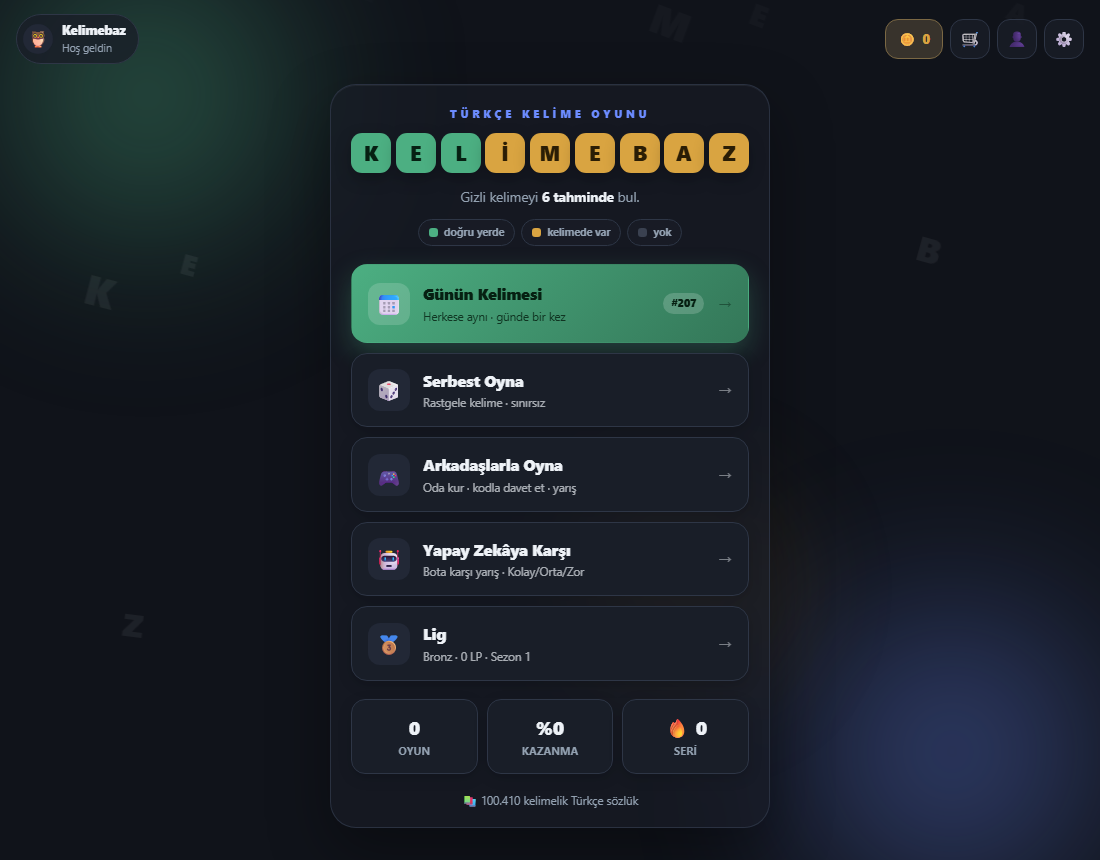
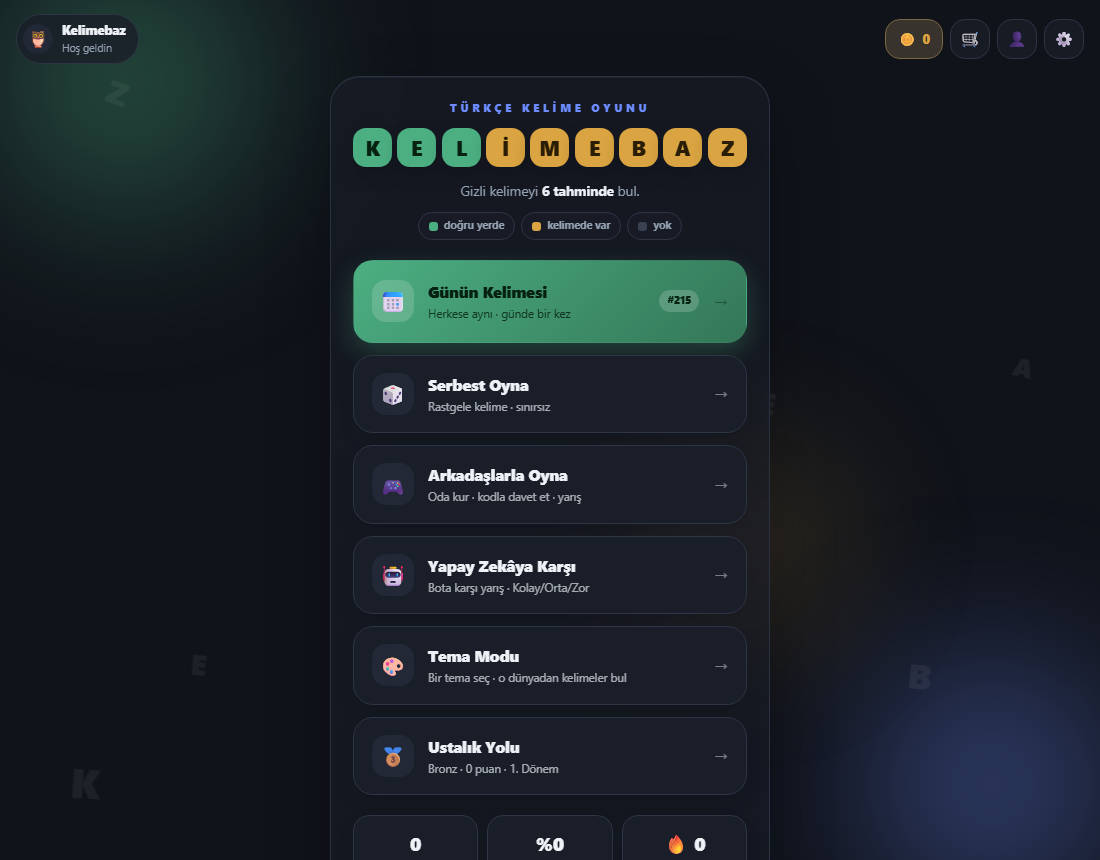
Tasarim: "Yumusak & Ferah" — yuvarlak koseler, ferah kartlar, yumusak golge
- Token'lar: $radius 12→15, $radius-sm 8→10, $radius-lg 20→24 (genel yumusama).
- Kutucuklar (tile) $radius kullandigi icin 12→15px yuvarlandi; tahtaya biraz
  daha nefes payi (game.scss --tile-gap).
- Menu (title-screen): mod kartlari 16→20px + dolgu/aralik artti + golgeler
  yumusadi; ust cubuk butonlari, logo kutucuklari, istatistik kartlari yuvarlandi.
- Oyun durumu renkleri (yesil/sari/gri) WCAG geregi DEGISMEDI.
- design-system/ katalogu (11 dosya) yeni olculere guncellendi +
  claude.ai/design "Kelimebaz Design System" paneline senkronlandi.
- docs/screenshots: menu + tahta kareleri yenilendi.

Yon kullanici tarafindan secildi (Yumusak & Ferah). Web + APK'ya yayinlandi.

diff --git a/src/app/components/title-screen/title-screen.scss b/src/app/components/title-screen/title-screen.scss
@@ -236,7 +236,7 @@
 
   background: color-mix(in srgb, var(--present) 16%, var(--surface));
   border: 1px solid color-mix(in srgb, var(--present) 45%, var(--border));
-  border-radius: 13px;
+  border-radius: 15px;
   backdrop-filter: blur(8px);
 
   transition:
@@ -267,7 +267,7 @@
 
   background: color-mix(in srgb, var(--surface) 78%, transparent);
   border: 1px solid var(--border);
-  border-radius: 13px;
+  border-radius: 15px;
   backdrop-filter: blur(8px);
 
   transition:
@@ -300,16 +300,16 @@
   max-width: 440px;
   display: flex;
   flex-direction: column;
-  gap: 18px;
+  gap: 20px;
 
-  padding: 22px 20px 18px;
+  padding: 24px 22px 20px;
 
   background: color-mix(in srgb, var(--surface) 55%, transparent);
   border: 1px solid color-mix(in srgb, var(--border) 85%, transparent);
-  border-radius: 26px;
+  border-radius: 30px;
   backdrop-filter: blur(18px);
   box-shadow:
-    0 24px 60px rgba(0, 0, 0, 0.35),
+    0 26px 64px rgba(0, 0, 0, 0.28),
     inset 0 1px 0 rgba(255, 255, 255, 0.05); // üstte ince ışık çizgisi → cam hissi
 }
 
@@ -377,9 +377,9 @@
   font-size: clamp(14px, 3.6vw, 21px);
   font-weight: 800;
 
-  border-radius: 11px;
+  border-radius: 13px;
   color: var(--text);
-  box-shadow: 0 6px 16px rgba(0, 0, 0, 0.25);
+  box-shadow: 0 8px 18px rgba(0, 0, 0, 0.2);
 
   animation: flip-in 0.6s cubic-bezier(0.2, 0.8, 0.2, 1) both;
 
@@ -455,22 +455,22 @@
 
 .modes {
   display: grid;
-  gap: 10px;
+  gap: 12px;
 }
 
 .mode {
   position: relative;
   display: flex;
   align-items: center;
-  gap: 13px;
+  gap: 14px;
   width: 100%;
-  padding: 15px 16px;
+  padding: 17px 18px;
   text-align: left;
 
-  border-radius: 16px;
+  border-radius: 20px;
   border: 1px solid var(--border);
   background: var(--surface);
-  box-shadow: 0 4px 14px rgba(0, 0, 0, 0.18);
+  box-shadow: 0 6px 18px rgba(0, 0, 0, 0.13);
   overflow: hidden;
 
   transition:
@@ -497,7 +497,7 @@
   &:hover {
     transform: translateY(-3px);
     border-color: color-mix(in srgb, var(--accent) 60%, var(--border));
-    box-shadow: 0 14px 32px rgba(0, 0, 0, 0.3);
+    box-shadow: 0 16px 34px rgba(0, 0, 0, 0.2);
 
     &::before {
       transform: translateX(120%);
@@ -516,7 +516,7 @@
 
   // Birincil kart — günün kelimesi. Görsel ağırlığı en yüksek olan öğe.
   &.primary {
-    padding: 17px 16px;
+    padding: 19px 18px;
     background: linear-gradient(
       135deg,
       var(--correct),
@@ -578,7 +578,7 @@
   display: grid;
   place-items: center;
   font-size: 20px;
-  border-radius: 12px;
+  border-radius: 14px;
 }
 
 .m-tx {
@@ -645,11 +645,11 @@
 /* ---------- Bugün oynandı kartı ---------- */
 
 .done {
-  padding: 15px;
+  padding: 16px;
   background: var(--surface);
   border: 1px solid var(--border);
-  border-radius: 18px;
-  box-shadow: 0 4px 14px rgba(0, 0, 0, 0.18);
+  border-radius: 22px;
+  box-shadow: 0 6px 18px rgba(0, 0, 0, 0.13);
 }
 
 .d-head {
@@ -712,8 +712,8 @@
 
   background: var(--surface);
   border: 1px solid var(--border);
-  border-radius: 14px;
-  box-shadow: 0 4px 14px rgba(0, 0, 0, 0.16);
+  border-radius: 16px;
+  box-shadow: 0 6px 16px rgba(0, 0, 0, 0.12);
 
   transition:
     transform 0.16s cubic-bezier(0.34, 1.5, 0.64, 1),
@@ -760,9 +760,9 @@
   }
 
   .content {
-    gap: 15px;
-    padding: 18px 14px 15px;
-    border-radius: 22px;
+    gap: 16px;
+    padding: 20px 16px 16px;
+    border-radius: 26px;
   }
 
   .blob {
@@ -868,7 +868,7 @@
   }
   .tile {
     max-width: 36px;
-    border-radius: 9px;
+    border-radius: 11px;
   }
   .tagline {
     margin-top: 8px;

diff --git a/design-system/components/buttons.html b/design-system/components/buttons.html
@@ -9,7 +9,7 @@
       :root {
         --bg: #10131a; --surface: #191e28; --surface-2: #222836; --border: #2e3646;
         --text: #eef2f7; --text-muted: #93a1b1; --accent: #6c8cff; --danger: #e0625c;
-        --share-1: #546dc7; --share-2: #7a60c7; --radius: 12px;
+        --share-1: #546dc7; --share-2: #7a60c7; --radius: 15px;
         --font: 'Segoe UI', system-ui, sans-serif;
       }
       * { box-sizing: border-box; }
@@ -22,7 +22,7 @@
       .danger { background: transparent; color: var(--danger); border: 1px solid var(--danger); }
       .share { background: linear-gradient(90deg, var(--share-1), var(--share-2)); color: #fff; }
       .pill { border-radius: 999px; padding: 9px 18px; font-size: 14px; }
-      .icon { width: 44px; height: 44px; border-radius: 12px; background: var(--surface-2); color: var(--text); display: grid; place-items: center; padding: 0; font-size: 18px; }
+      .icon { width: 44px; height: 44px; border-radius: 14px; background: var(--surface-2); color: var(--text); display: grid; place-items: center; padding: 0; font-size: 18px; }
       .lbl { color: var(--text-muted); font-size: 12px; width: 100%; margin: 0 0 -6px; }
     </style>
   </head>

diff --git a/design-system/tokens/skins.html b/design-system/tokens/skins.html
@@ -12,8 +12,8 @@
       h1 { font-size: 15px; letter-spacing: 0.04em; text-transform: uppercase; color: var(--text-muted); margin: 0 0 4px; }
       p.sub { margin: 0 0 22px; color: var(--text-muted); font-size: 13px; }
       .grid { display: grid; grid-template-columns: repeat(auto-fill, minmax(160px, 1fr)); gap: 14px; }
-      .skin { border: 1px solid var(--border); border-radius: 12px; padding: 14px; background: var(--surface); }
-      .swatch { height: 44px; border-radius: 8px; margin-bottom: 12px; }
+      .skin { border: 1px solid var(--border); border-radius: 15px; padding: 14px; background: var(--surface); }
+      .swatch { height: 44px; border-radius: 10px; margin-bottom: 12px; }
       .btn { display: inline-block; padding: 7px 14px; border-radius: 999px; color: #fff; font-weight: 700; font-size: 13px; }
       .name { font-size: 13px; font-weight: 600; margin-bottom: 10px; }
     </style>

diff --git a/design-system/tokens/spacing.html b/design-system/tokens/spacing.html
@@ -45,9 +45,9 @@
 
     <h2>Köşe yarıçapı</h2>
     <div class="radii">
-      <div class="rad"><div class="demo" style="border-radius: 8px"></div><div class="lbl">--radius-sm · 8</div></div>
-      <div class="rad"><div class="demo" style="border-radius: 12px"></div><div class="lbl">--radius · 12</div></div>
-      <div class="rad"><div class="demo" style="border-radius: 20px"></div><div class="lbl">--radius-lg · 20</div></div>
+      <div class="rad"><div class="demo" style="border-radius: 10px"></div><div class="lbl">--radius-sm · 10</div></div>
+      <div class="rad"><div class="demo" style="border-radius: 15px"></div><div class="lbl">--radius · 15</div></div>
+      <div class="rad"><div class="demo" style="border-radius: 24px"></div><div class="lbl">--radius-lg · 24</div></div>
     </div>
   </body>
 </html>

diff --git a/design-system/components/tile-colorblind.html b/design-system/components/tile-colorblind.html
@@ -24,7 +24,7 @@
       .tile {
         width: 58px; height: 58px; display: grid; place-items: center;
         font-family: var(--mono); font-size: 28px; font-weight: 700;
-        border-radius: 6px; border: 2px solid var(--tile-border);
+        border-radius: 15px; border: 2px solid var(--tile-border);
       }
       .tile.correct { background: var(--correct); color: var(--on-correct); border-color: var(--correct); }
       .tile.present { background: var(--present); color: var(--on-present); border-color: var(--present); }

diff --git a/design-system/components/board.html b/design-system/components/board.html
@@ -23,7 +23,7 @@
       .t {
         width: 52px; height: 52px; display: grid; place-items: center;
         font-family: var(--mono); font-size: 25px; font-weight: 700;
-        border-radius: 6px; border: 2px solid var(--tile-border);
+        border-radius: 15px; border: 2px solid var(--tile-border);
       }
       .correct { background: var(--correct); color: var(--on-correct); border-color: var(--correct); }
       .present { background: var(--present); color: var(--on-present); border-color: var(--present); }

diff --git a/src/app/components/game/game.scss b/src/app/components/game/game.scss
@@ -18,7 +18,8 @@
   --cols: 5;
 
   // Mobil temel ölçüler — ekranın hem genişliğine hem yüksekliğine bakar
-  --tile-gap: clamp(4px, 1.1vw, 6px);
+  // "Yumuşak & Ferah": kutular arası biraz daha nefes payı (formül taşmayı önler).
+  --tile-gap: clamp(5px, 1.2vw, 7px);
   // Kutu boyutu = min(estetik/yükseklik tavanı, GENİŞLİĞE sığan boyut).
   // Genişlik terimi sütun sayısına bağlı → 7 harfli kelime bile dar ekranda taşmaz.
   --tile-cap: clamp(40px, min(15.5vw, 7.6dvh), 62px);

diff --git a/design-system/components/tile-dark.html b/design-system/components/tile-dark.html
@@ -22,7 +22,7 @@
       .tile {
         width: 58px; height: 58px; display: grid; place-items: center;
         font-family: var(--mono); font-size: 28px; font-weight: 700;
-        border-radius: 6px; border: 2px solid var(--tile-border);
+        border-radius: 15px; border: 2px solid var(--tile-border);
       }
       .tile.filled { border-color: var(--tile-border-filled); }
       .tile.correct { background: var(--correct); color: var(--on-correct); border-color: var(--correct); }

diff --git a/design-system/components/tile-light.html b/design-system/components/tile-light.html
@@ -22,7 +22,7 @@
       .tile {
         width: 58px; height: 58px; display: grid; place-items: center;
         font-family: var(--mono); font-size: 28px; font-weight: 700;
-        border-radius: 6px; border: 2px solid var(--tile-border);
+        border-radius: 15px; border: 2px solid var(--tile-border);
       }
       .tile.filled { border-color: var(--tile-border-filled); }
       .tile.correct { background: var(--correct); color: var(--on-correct); border-color: var(--correct); }

diff --git a/design-system/components/keyboard.html b/design-system/components/keyboard.html
@@ -19,7 +19,7 @@
       .kb { display: grid; gap: 8px; max-width: 520px; }
       .krow { display: flex; gap: 6px; justify-content: center; }
       .key {
-        min-width: 34px; height: 50px; padding: 0 10px; border-radius: 8px;
+        min-width: 34px; height: 50px; padding: 0 10px; border-radius: 10px;
         background: var(--key-bg); color: var(--text); font-weight: 700; font-size: 15px;
         display: grid; place-items: center; border: 0;
       }

diff --git a/design-system/components/cards.html b/design-system/components/cards.html
@@ -9,7 +9,7 @@
       :root {
         --bg: #10131a; --surface: #191e28; --surface-2: #222836; --border: #2e3646;
         --text: #eef2f7; --text-muted: #93a1b1; --accent: #6c8cff; --accent-2: #9d7bff;
-        --present: #d9a441; --radius: 12px; --radius-lg: 20px;
+        --present: #d9a441; --radius: 15px; --radius-lg: 24px;
         --font: 'Segoe UI', system-ui, sans-serif;
       }
       * { box-sizing: border-box; }

diff --git a/src/styles/_variables.scss b/src/styles/_variables.scss
@@ -25,9 +25,11 @@ $accent-2: #9d7bff;
 $danger: #e0625c;
 
 // --- Ölçüler ---
-$radius-sm: 8px;
-$radius: 12px;
-$radius-lg: 20px;
+// "Yumuşak & Ferah" yönü: köşeler daha yuvarlak → sıcak, sakin his.
+// (Kutucuklar $radius kullanır; menü/kartlar da bu jetonlardan türer.)
+$radius-sm: 10px;
+$radius: 15px;
+$radius-lg: 24px;
 
 $space-1: 4px;
 $space-2: 8px;
